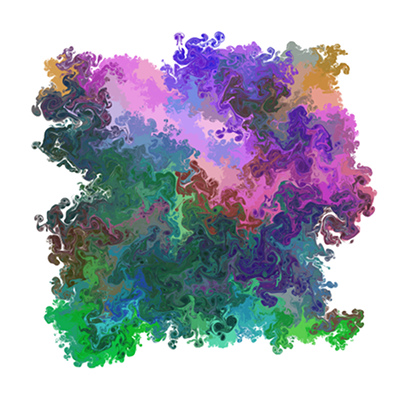
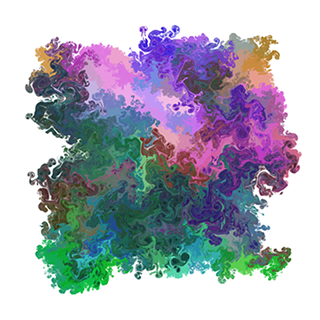
TRY AGAIN.

Changed region(s): [[0.5, 0.0938, 0.5312, 0.125], [0.2188, 0.125, 0.25, 0.1562], [0.125, 0.625, 0.1562, 0.6562]]

diff --git a/README.md b/README.md
@@ -9,8 +9,8 @@ Add soft shadows to a png image
 
 The last command turns the image on the left into the image on the right.
 
-<img src="media/in.png" width="400" height="400" />
-<img src="media/out.png" width="400" height="400" />
+<img src="media/in.png" width="320" height="320" />
+<img src="media/out.png" width="320" height="320" />
 
 ### Thanks
 
